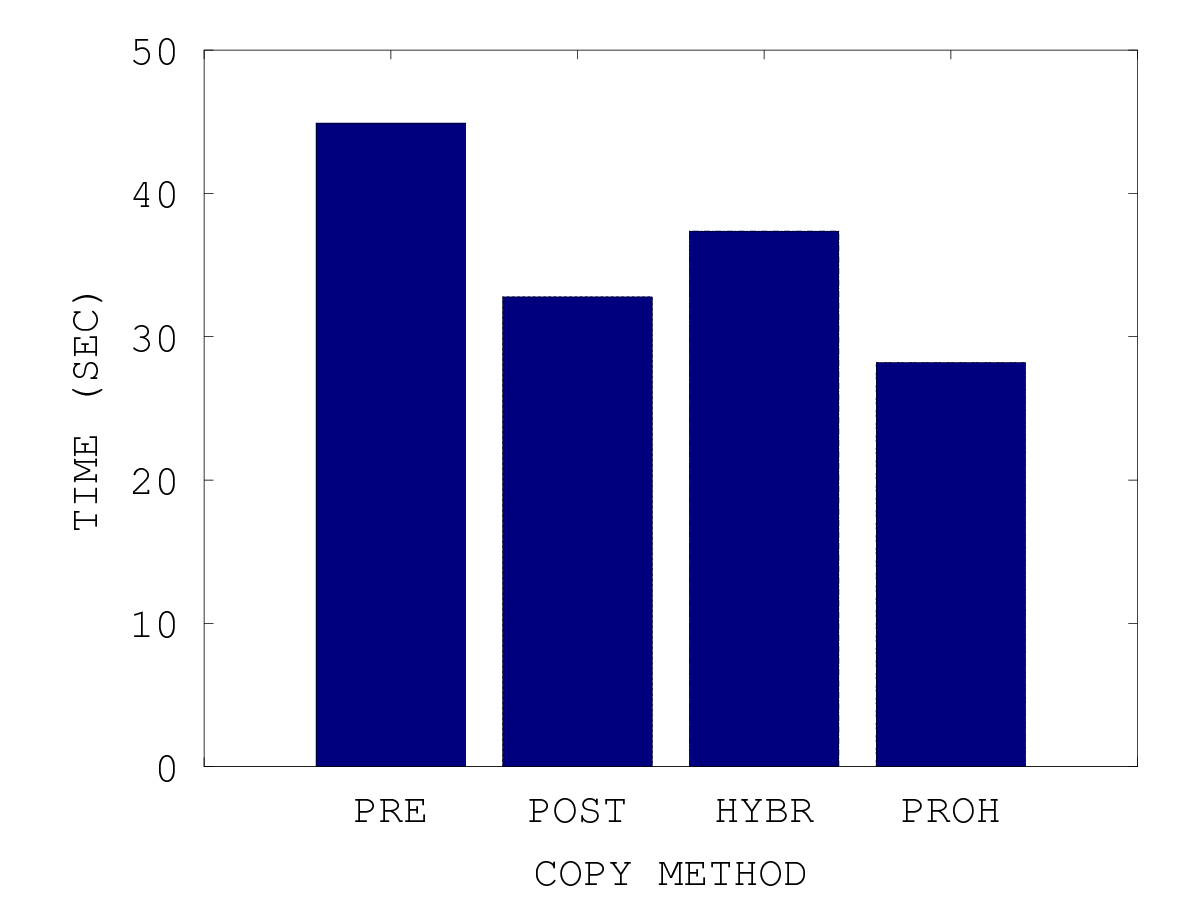
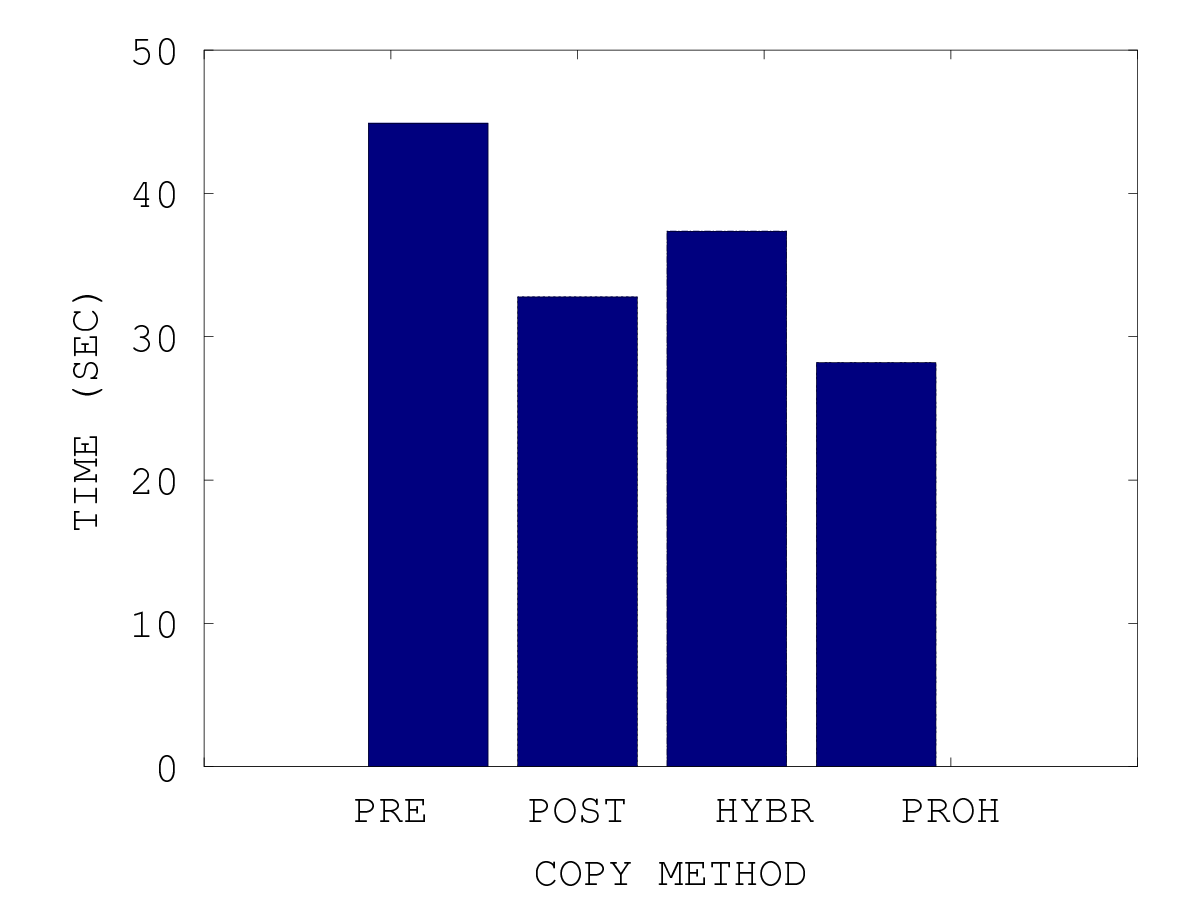
basic.m

diff --git a/basic.m b/basic.m
@@ -232,7 +232,7 @@ x = {'', 'PRE', 'POST', 'HYBR', 'PROH', ''};
 %plot(x, A(:,2)/1000000, x, A(:,3)/1000000, '-.*');
 %plot(A(:,2));
 
-xtics = 1:4
+xtics = 1:4:16
 bar(xtics, A(:,1))
 set(gca, 'XTickLabel', x, 'FontSize', fontsize)
 xlabel('COPY METHOD', 'FontSize', fontsize);
